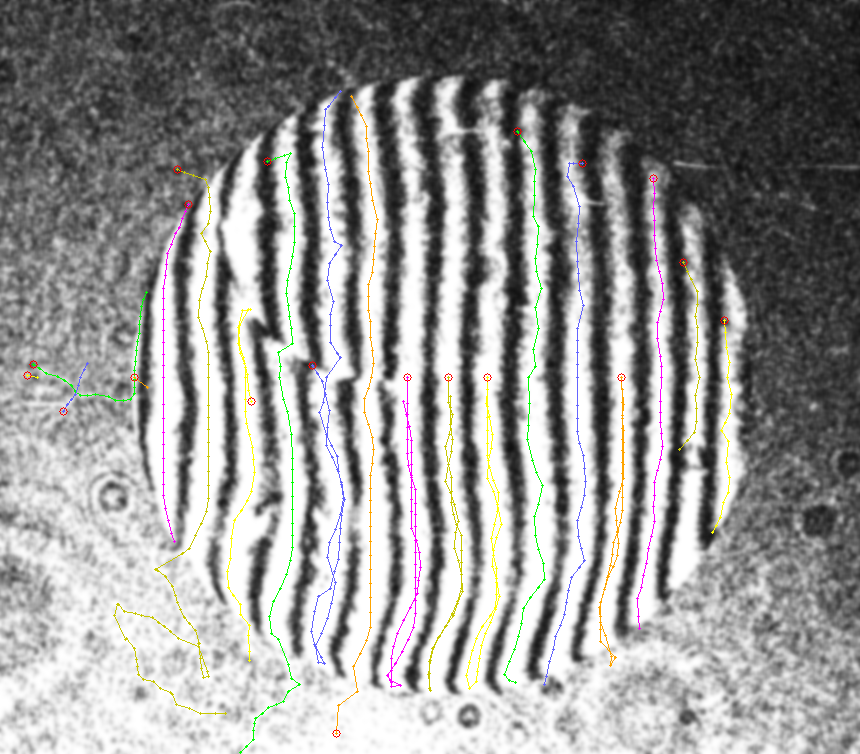
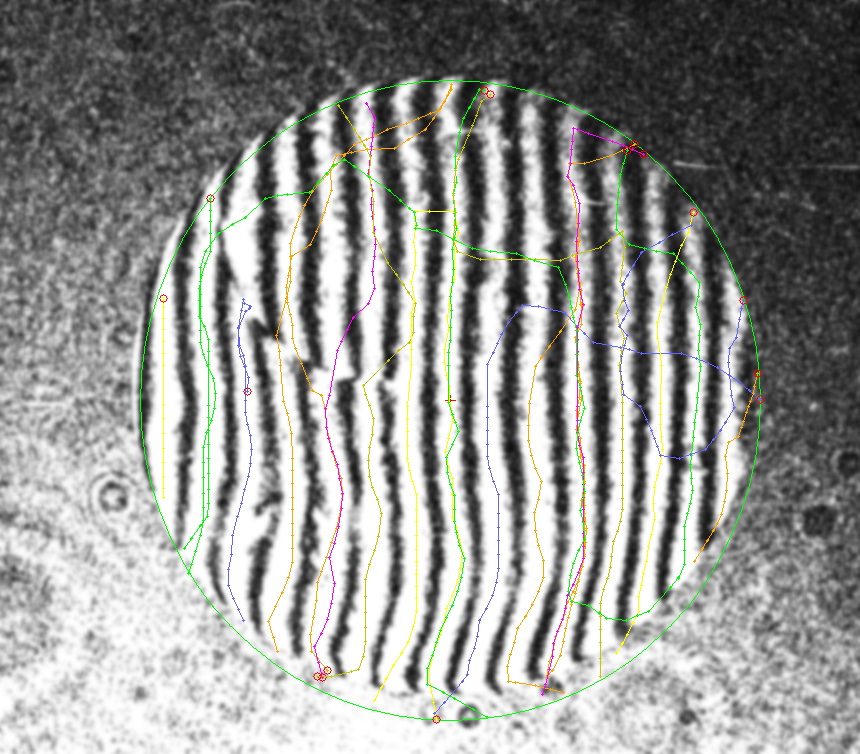
FringeTracer: fix boundary checks in Step, reduce jump threshold to 0.4

diff --git a/src/Core/Tracing/FringeTracer.cpp b/src/Core/Tracing/FringeTracer.cpp
@@ -327,8 +327,8 @@ namespace Interferometry
         break;
       }
 
-      // Добавить прямой ход
-      for (int j = 0; j < (int)forwardLine.size(); j++)
+      // Добавить прямой ход начиная с точки 1
+      for (int j = 1; j < (int)forwardLine.size(); j++)
       {
         m_tempLine.push_back(forwardLine[j]);
       }
@@ -591,17 +591,13 @@ namespace Interferometry
     int predX = x + stepX;
     int predY = y + stepY;
 
-    // inside(x+dx,y+dy) != 0 -> остановка у границы
-    if (!IsInside(predX, predY))
-    {
-      // Не записываем точку за границей — просто останавливаемся
-      return -1;
-    }
-
     // CenterPerpendicular: центрирование на максимуме перпендикулярно движению.
     // Передаём знак шага — CenterPerpendicular сам повернёт на 90°.
     int ndx = sgn(stepX);
     int ndy = sgn(stepY);
+
+    if (!IsInside(predX, predY))
+      return -1;
 
     int cx = predX;
     int cy = predY;
@@ -613,6 +609,13 @@ namespace Interferometry
       line.push_back(p);
       return -2;
     }
+    // inside(x+dx,y+dy) != 0 -> остановка у границы
+    if (!IsInside(cx, cy))
+    {
+      // Не записываем точку за границей — просто останавливаемся
+      std::cout << "STOP at " << predX << "," << predY << std::endl;
+      return -1;
+    }
 
     // Защита от перескока: если CenterPerpendicular сдвинул точку
     // больше чем на wideLine/2 от предсказания — это перескок на
@@ -620,7 +623,7 @@ namespace Interferometry
     {
       float shiftDist = std::sqrt((float)(cx - predX) * (cx - predX) +
                                   (float)(cy - predY) * (cy - predY));
-      if (shiftDist > m_wideLine * 0.6f)
+      if (shiftDist > m_wideLine * 0.4f)
       {
         cx = predX;
         cy = predY;
@@ -646,9 +649,16 @@ namespace Interferometry
       }
       cx = cx2;
       cy = cy2;
+
+      if (!IsInside(cx, cy))
+      {
+        // Не записываем точку за границей — просто останавливаемся
+        std::cout << "STOP at " << predX << "," << predY << std::endl;
+        return -1;
+      }
     }
 
-    // записать новую точку (как curve_line[..][2*num_point+2] = x; ...)
+    // записать новую точку (как curve_line[..][2*num_point+2] = x; ...)40
     CTracerPoint np(cx, cy);
     np.width = m_curWidth;
     np.intensity = AverageIntensity(cx, cy);
@@ -771,7 +781,7 @@ namespace Interferometry
           ss = buf;
         }
       }
-      global_min_aver = std::min(global_min_aver, min_aver);
+      global_min_aver = (std::min)(global_min_aver, min_aver);
     }
 
     m_average = global_min_aver; // перезаписываем — как в оригинале

diff --git a/tests/PipelineTest/PipelineTest.cpp b/tests/PipelineTest/PipelineTest.cpp
@@ -314,7 +314,13 @@ static std::vector<std::pair<int, int>> FindStartPoints(
     }
     profile[x] = (cnt > 0) ? sum / cnt : 0;
   }
-
+  // DEBUG: вывод профиля
+  std::cout << "  DEBUG profile (y=" << cy << "):" << std::endl;
+  for (int x = 0; x < width; x += 3)
+  {
+    std::cout << x << ":" << (int)profile[x] << " ";
+  }
+  std::cout << std::endl;
   // Границы рабочей области
   int xLeft = 0, xRight = width - 1;
   for (int x = 0; x < width; x++)
@@ -486,6 +492,8 @@ int main(int argc, char *argv[])
   int startX = -1, startY = -1; // -1 = автоматический поиск
   int polyDegree = 8;
   int maxLines = 20;
+  // Хардкод эллипса (0 = автоопределение)
+  int ellipseCX = 420, ellipseCY = 360, ellipseA = 310, ellipseB = 320;
 
   // if (argc >= 2) imagePath = argv[1];
   if (argc >= 4)
@@ -607,28 +615,14 @@ int main(int argc, char *argv[])
     );
 
     boundary.SetEllipse(outerEllipse, true);
-
-    // Сразу после boundary.SetEllipse(outerEllipse, true);
-    std::cout << "  DEBUG boundary check:" << std::endl;
-    std::cout << "    IsInside(174,100)=" << boundary.IsInside(174, 100) << std::endl;
-    std::cout << "    IsInside(10,100)=" << boundary.IsInside(10, 100) << std::endl;
-    std::cout << "    IsInside(174,10)=" << boundary.IsInside(174, 10) << std::endl;
-    // И покажи первые несколько строк границ
-    for (int y = 95; y <= 105; y++)
-    {
-      const auto &row = boundary.GetRowBoundary(y);
-      std::cout << "    row[" << y << "]: left=" << row.leftOuter
-                << " right=" << row.rightOuter << std::endl;
-    }
-
-    std::cout << "  Эллипс: центр=(" << outerEllipse.centerX << ","
-              << outerEllipse.centerY << ") a=" << outerEllipse.semiAxisA
-              << " b=" << outerEllipse.semiAxisB
-              << " angle=" << outerEllipse.angle << std::endl;
   }
   else
   {
-    std::cerr << "  ОШИБКА: недостаточно точек для фитирования!" << std::endl;
+    std::cout << "\nВведите параметры эллипса (0 = автоопределение):" << std::endl;
+    std::cout << "  centerX centerY semiA semiB: ";
+    std::cin >> ellipseCX >> ellipseCY >> ellipseA >> ellipseB;
+    outerEllipse = EllipseParams(ellipseCX, ellipseCY, ellipseA, ellipseB);
+    boundary.SetEllipse(outerEllipse, true);
   }
 
   bool valid = boundary.Validate();